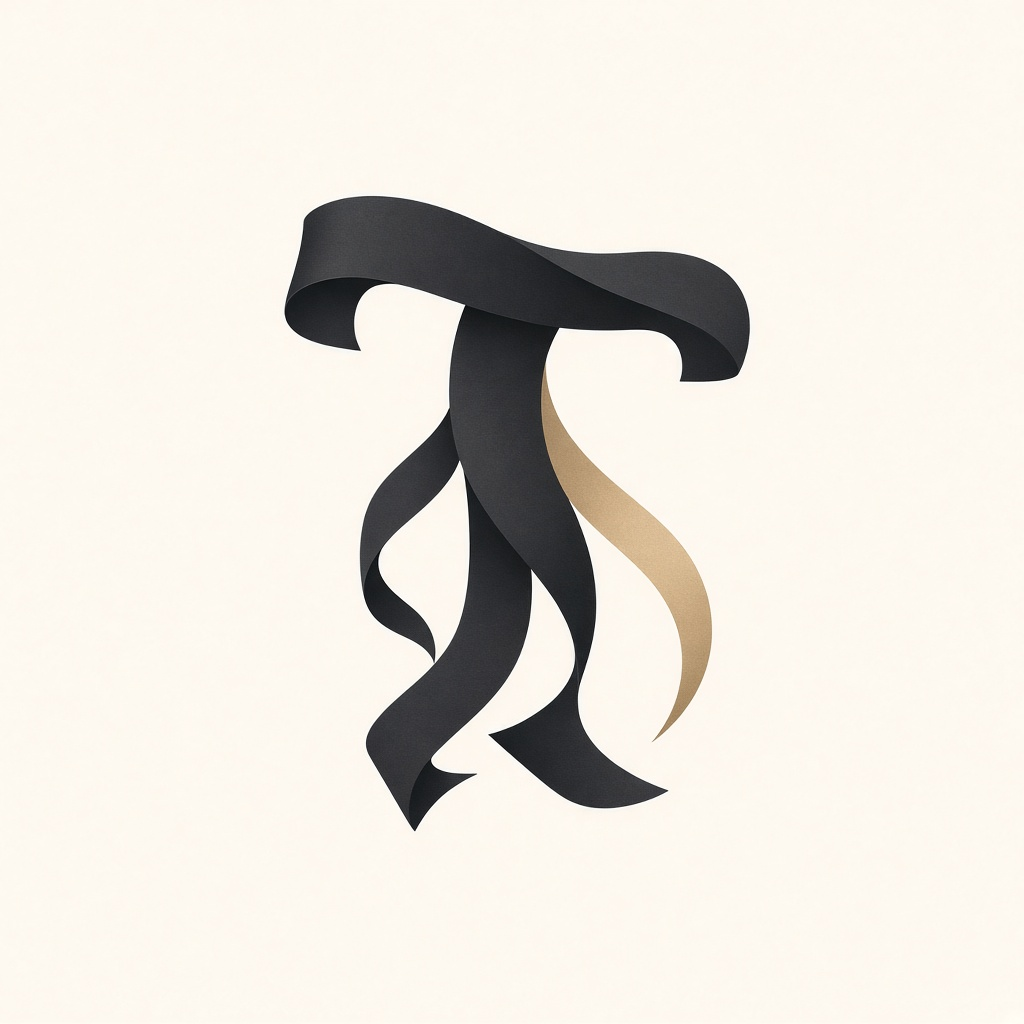
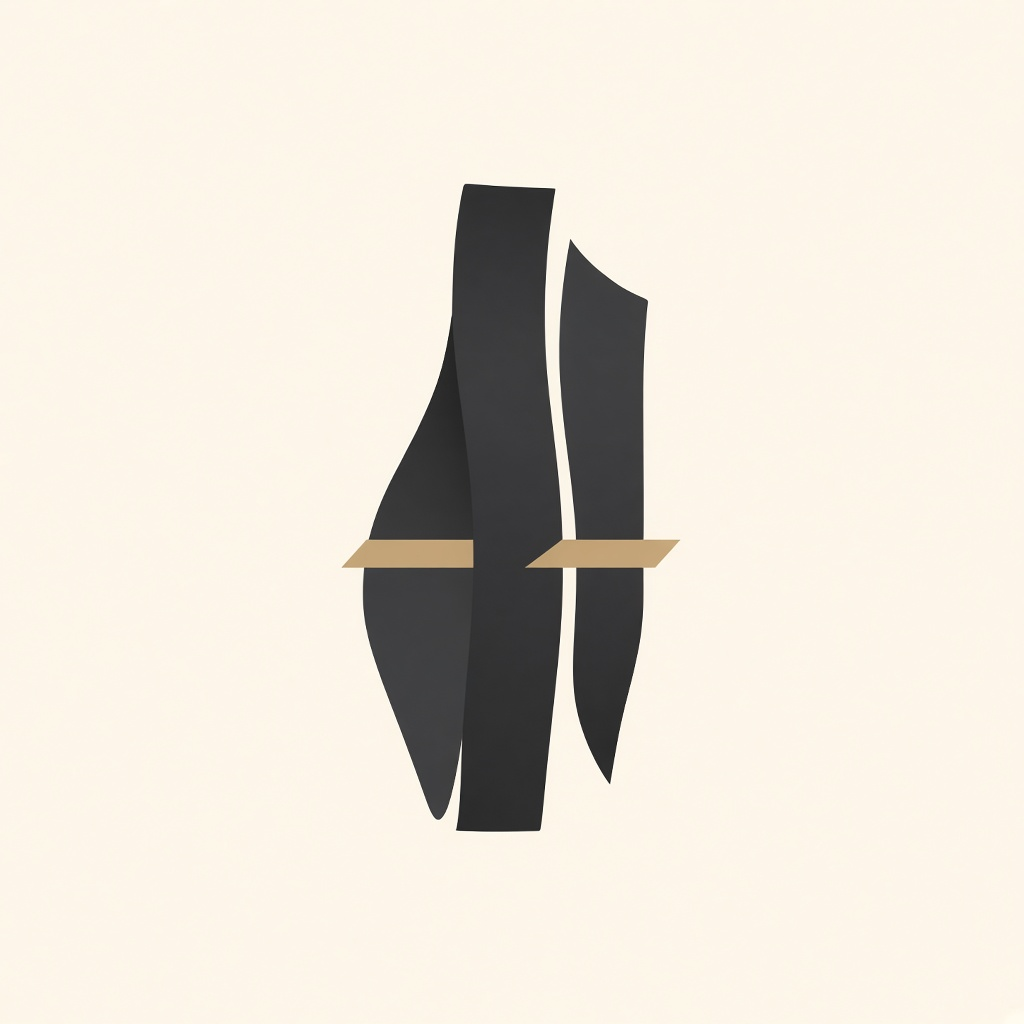
Refine the Tansiq mark into an open ribbon T without oval badges.
Replace the blob-like enclosed mark with a clear bar-and-stem monogram plus champagne accents, and use the SVG lockup on landing for crisp mobile branding.

Changed region(s): [[0.2812, 0.1562, 0.75, 0.8125], [0.375, 0.4375, 0.4062, 0.4688]]

diff --git a/src/components/brand/brand-lockup.tsx b/src/components/brand/brand-lockup.tsx
@@ -55,37 +55,41 @@ function MarkSvg({
       className="shrink-0"
       aria-hidden
     >
-      {/* Soft fabric-ribbon T — distinctive, no outer circle */}
+      {/* Open ribbon T — bar + stem only, no circle / oval badge */}
       <path
-        d="M11 17c4.2-3.8 37.8-3.8 42 0-3.1 4.6-8.4 7.4-14.8 7.4H25.8C19.4 24.4 14.1 21.6 11 17Z"
-        fill={ink}
-      />
-      <path
-        d="M29.2 22.8h5.6v27.6c0 2.6-2.1 4.6-4.6 4.6h1.8c-2.2 0-4-1.8-4-4V22.8h1.2Z"
-        fill={ink}
-      />
-      <path
-        d="M15.5 19.8c8.2 2.4 24.8 2.4 33 0"
-        stroke={gold}
-        strokeWidth="2.35"
+        d="M10 18h44"
+        stroke={ink}
+        strokeWidth="5.5"
         strokeLinecap="round"
         fill="none"
       />
       <path
-        d="M36.2 25.5c5.4 4.1 8.6 10.2 8.2 17.2"
-        stroke={gold}
-        strokeWidth="1.7"
+        d="M32 18v34"
+        stroke={ink}
+        strokeWidth="5.5"
         strokeLinecap="round"
         fill="none"
-        opacity="0.95"
       />
       <path
-        d="M24.8 14.2c5.6 1.2 8.8 1.2 14.4 0"
+        d="M14 14.5c9 2.2 27 2.2 36 0"
         stroke={gold}
-        strokeWidth="1.35"
+        strokeWidth="2"
         strokeLinecap="round"
         fill="none"
-        opacity="0.8"
+      />
+      <path
+        d="M36 22c6.5 5 10 12.5 9.5 21"
+        stroke={gold}
+        strokeWidth="1.75"
+        strokeLinecap="round"
+        fill="none"
+      />
+      <path
+        d="M24 50.5h16"
+        stroke={gold}
+        strokeWidth="1.75"
+        strokeLinecap="round"
+        fill="none"
       />
     </svg>
   );

diff --git a/src/app/page.tsx b/src/app/page.tsx
@@ -57,7 +57,7 @@ export default function MarketingLanding() {
               tone="inverse"
               size="lg"
               showSlogan
-              mark="photo"
+              mark="svg"
             />
           </div>
           <p className="max-w-md text-[15px] leading-relaxed text-white/78 animate-rise-delay md:text-lg">
